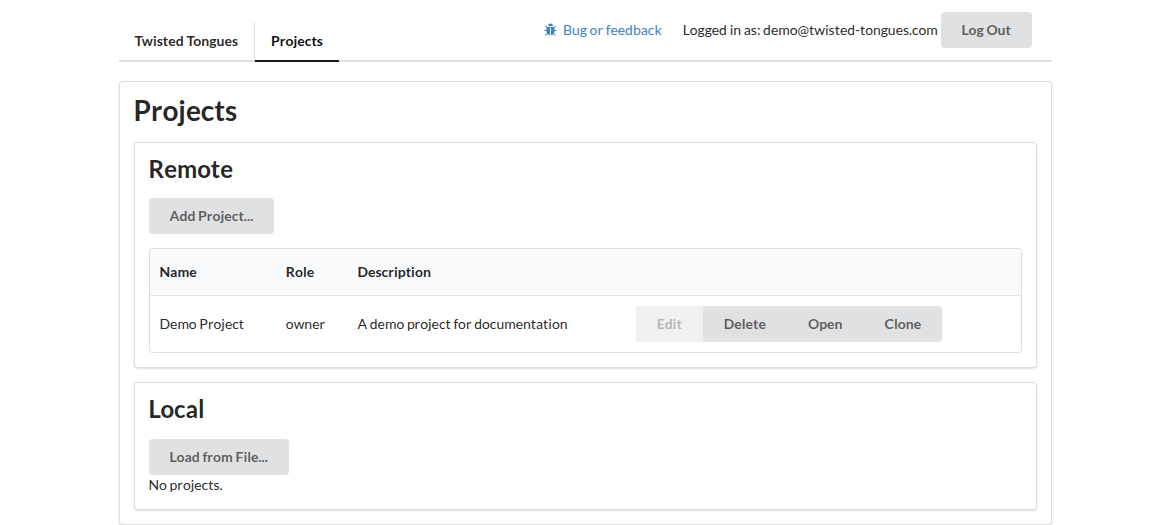
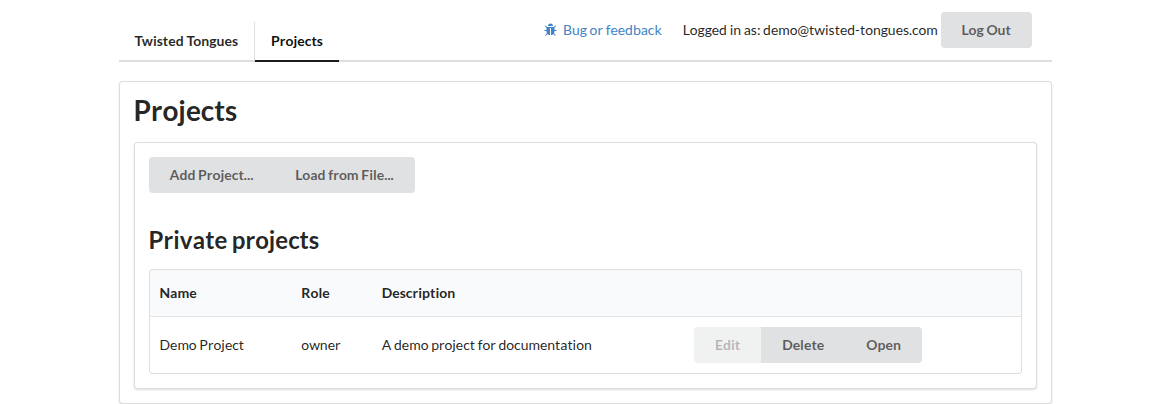
Re-capture the figures, and describe the export TT actually has (#19)
* Re-capture the figures, and describe the export TT actually has

The 20260901 release retired local projects and replaced the export
dialog, and the manual still described both.

## Figures

All 24 automated figures re-captured against 20260901; ten changed.
`figure_016_conflict_button` is a manual capture and is untouched.

The two that carry the text changes: figure 2 no longer has a Clone
button or a "Local" section, and shows the Shared/Private grouping;
figure 17 is an entirely different dialog.

## 2.1, 2.4

Clone is gone, so the three options are two. The list is grouped into
"Shared projects" — anything with a collaborator, in either direction —
and "Private projects", and a heading is only drawn when it has rows
under it, which is worth saying so a user with one list is not looking
for the other.

Loading a file creates a project on the server rather than a "local"
project in the browser, and there is no longer a "Local" section to
click it in.

## 4.6, rewritten

The old text described three modes and a per-track dropdown; the dialog
now asks where the work is going and offers different settings per
destination. Since this is where somebody comes for detail, every
control is documented, in five subsections: the three destinations, the
folded "How it is written" block (notation, interlinear package, small
capitals encoding, NFC/NFD, and when each is unavailable and why), the
per-track switches, both preambles with the reason tipa loads after the
[…]

diff --git a/src/manual.fr.md b/src/manual.fr.md
@@ -34,6 +34,16 @@
 
 [4.6 Exporter des passages](#4.6-exporting-passages)
 
+[4.6.1 Type d'export](#4.6.1-export-type)
+
+[4.6.2 Options avancées](#4.6.2-advanced-options)
+
+[4.6.3 Choisir les pistes](#4.6.3-choosing-tracks)
+
+[4.6.4 Le préambule](#4.6.4-the-preamble)
+
+[4.6.5 L'ancien export](#4.6.5-the-legacy-export)
+
 [5 Recherche de mots](#5-word-search)
 
 [5.1 Options de recherche](#5.1-search-options)
@@ -77,7 +87,9 @@ Figure 1\. Page d'accueil après connexion.
 
 ### 2.1 Ouvrir un projet {#2.1-opening-a-project}
 
-Les projets sont des ensembles de passages associés à un même projet de recherche. Il est recommandé de créer un projet distinct pour chaque langue dont les données sont saisies dans TT. Les projets peuvent être consultés depuis l'onglet « Projects » (figure 2). Dans cet onglet, l'utilisateur voit la liste de tous les projets qu'il a créés, ainsi que ceux qui ont été partagés avec lui. Pour chaque projet de l'onglet « Projects », trois options sont disponibles : 1\) « Delete » (supprimer), qui supprime définitivement le projet pour tous les utilisateurs (seul le propriétaire du projet peut le faire) ; 2\) « Open » (ouvrir), qui permet de consulter le dictionnaire (« Dictionary »), la recherche de mots (« Word Search ») et les passages (« Passages ») de ce projet, et d'y saisir de nouvelles données ; et 3\) « Clone » (cloner), qui crée une copie locale du même projet dans le navigateur utilisé. (Un bouton « Edit » (modifier) apparaît également, mais il est actuellement désactivé : le nom et la description d'un projet ne peuvent pas être modifiés après leur création.)
+Les projets sont des ensembles de passages associés à un même projet de recherche. Il est recommandé de créer un projet distinct pour chaque langue dont les données sont saisies dans TT. Les projets peuvent être consultés depuis l'onglet « Projects » (figure 2). Dans cet onglet, l'utilisateur voit tous les projets qu'il a créés, ainsi que ceux qui ont été partagés avec lui, répartis sous deux intitulés : « Shared projects » (projets partagés) pour ceux qui ont des collaborateurs — que vous ayez invité quelqu'un sur l'un de vos projets ou que l'on vous ait invité sur le sien — et « Private projects » (projets privés) pour ceux qui n'en ont aucun. Un intitulé n'apparaît que s'il a quelque chose à présenter : un utilisateur qui n'a jamais rien partagé ne voit donc qu'une seule liste. Chaque ligne indique également votre rôle dans le projet : « owner » (propriétaire), « writer » (rédacteur) ou « reader » (lecteur).
+
+Pour chaque projet de l'onglet « Projects », deux options sont disponibles : 1\) « Delete » (supprimer), qui supprime définitivement le projet pour tous les utilisateurs (seul le propriétaire du projet peut le faire) ; et 2\) « Open » (ouvrir), qui permet de consulter le dictionnaire (« Dictionary »), la recherche de mots (« Word Search ») et les passages (« Passages ») de ce projet, et d'y saisir de nouvelles données. (Un bouton « Edit » (modifier) apparaît également, mais il est actuellement désactivé : le nom et la description d'un projet ne peuvent pas être modifiés après leur création.)
 
 Figure 2\. Onglet « Projects ».
 ![](images/figure_002_projects_tab.png)
@@ -104,7 +116,9 @@ Consultez la page [export format](/dev/export-format) (en anglais) si vous souha
 
 ### 2.4 Charger un projet depuis un fichier {#2.4-loading-a-project-from-a-file}
 
-Un fichier enregistré peut être rechargé depuis l'onglet « Projects » : cliquez sur « Load from File… » (charger depuis un fichier) dans la section « Local », et TT indiquera ce qu'il a trouvé dans le fichier avant de créer quoi que ce soit. Le chargement crée toujours un nouveau projet « local » — qui réside dans le navigateur que vous utilisez — plutôt que de compléter ou de restaurer un projet sur le serveur. Les fichiers écrits par n'importe quelle version antérieure de TT se chargent également, et nous entendons faire en sorte que tout fichier écrit par TT reste chargeable, dans la mesure de nos moyens ; les plus anciens sont antérieurs aux modèles, un projet chargé à partir de l'un d'eux n'en aura donc aucun.
+Un fichier enregistré peut être rechargé depuis l'onglet « Projects » : cliquez sur « Load from File… » (charger depuis un fichier), et TT indiquera ce qu'il a trouvé dans le fichier — son nom, sa description, ainsi que le nombre de passages, de phrases et de modèles qu'il contient — avant de créer quoi que ce soit. Le chargement crée toujours un nouveau projet ; il ne complète ni ne restaure jamais un projet existant, de sorte qu'un fichier qui se révélerait être le mauvais ne peut pas endommager un travail déjà présent sur le serveur. Le nouveau projet vous appartient, réside sur le serveur, et peut être partagé comme n'importe quel autre.
+
+Les fichiers écrits par n'importe quelle version antérieure de TT se chargent également, et nous entendons faire en sorte que tout fichier écrit par TT reste chargeable, dans la mesure de nos moyens ; les plus anciens sont antérieurs aux modèles, un projet chargé à partir de l'un d'eux n'en aura donc aucun.
 
 ## 3 Modèles {#3-templates}
 
@@ -185,14 +199,95 @@ Dans une piste de type « T2IPA », les données doivent être saisies sous form
 
 ### 4.5 Saisie de la ligne de glose {#4.5-gloss-line-entry}
 
-Dans toute piste de type « Text », les majuscules sont exportées en petites capitales à des fins de glose, conformément aux [règles de glose de Leipzig](https://www.eva.mpg.de/lingua/pdf/Glossing-Rules.pdf). Les tirets au sein d'une même cellule sont interprétés comme des frontières de morphèmes et segmentés comme tels dans le dictionnaire. Les signes égal « = » sont interprétés comme des frontières de clitiques et sont eux aussi segmentés dans le dictionnaire.
+Dans toute piste de type « Text », les majuscules sont exportées en petites capitales à des fins de glose, conformément aux [règles de glose de Leipzig](https://www.eva.mpg.de/lingua/pdf/Glossing-Rules.pdf) ; ce comportement peut être désactivé piste par piste au moment de l'export (voir la section 4.6.3). Les tirets au sein d'une même cellule sont interprétés comme des frontières de morphèmes et segmentés comme tels dans le dictionnaire. Les signes égal « = » sont interprétés comme des frontières de clitiques et sont eux aussi segmentés dans le dictionnaire.
 
 ### 4.6 Exporter des passages {#4.6-exporting-passages}
 
-Pour exporter un passage, cliquez sur « Select All » (tout sélectionner) en haut à droite du passage concerné, puis sur « Export » (exporter), juste en dessous de « Select All ». Pour exporter une ou plusieurs phrases d'un passage, cochez la case à droite des phrases à exporter, puis cliquez sur « Export ». Une fenêtre contextuelle apparaît alors (figure 17), dans laquelle l'utilisateur peut choisir l'un des trois modes d'export : LaTeX, tableau formaté (« Formatted Table ») ou tabulations formatées (« Formatted Tabs »). L'export LaTeX suppose l'utilisation des paquets LaTeX tipa et gb4e. Les tableaux formatés sont du texte brut mis en forme en tableau, garantissant un alignement correct des transcriptions \+ gloses une fois copiés dans un tableur ou un logiciel de traitement de texte. Les tabulations formatées sont similaires, mais avec une tabulation entre chaque mot au lieu d'une mise en forme en tableau. L'utilisateur peut également choisir quelles pistes exporter. Par exemple, une piste de notes ou de catégories syntaxiques peut être utile pour les recherches dans la base, sans que l'on souhaite l'exporter pour publication. Pour chaque nom de piste, un menu déroulant permet de choisir d'exporter ou non cette piste. Dans ce même menu, pour chaque piste de type « Text » ou « T2IPA », l'utilisateur peut choisir un export en mode IPA (recommandé pour toute ligne écrite en API, qu'elle soit saisie dans une piste « Text » ou « T2IPA ») ou en mode Gloss. Ce choix détermine la manière dont les caractères spéciaux sont exportés.
+Pour exporter un passage, cliquez sur « Select All » (tout sélectionner) en haut à droite du passage concerné, puis sur « Export » (exporter), juste en dessous de « Select All ». Pour exporter une ou plusieurs phrases d'un passage, cochez la case à droite des phrases à exporter, puis cliquez sur « Export ». Une fenêtre contextuelle apparaît alors (figure 17).
+
+TT propose trois types d'export : du code LaTeX, du texte mis en forme (pratique à coller dans un document ou un courriel) et du texte délimité par des tabulations (pratique à coller dans un tableur). Le choix se fait en haut de la fenêtre, et les réglages proposés en dessous dépendent du type retenu.
+
+Le résultat apparaît dans le cadre au bas de la fenêtre et se met à jour à mesure que vous modifiez les réglages situés au-dessus. « Copy » (copier) le place dans le presse-papiers ; rien n'est téléchargé. Pour enregistrer un projet entier dans un fichier, voir la section 2.3.
 
 Figure 17\. Export de phrases au format LaTeX.  
 ![](images/figure_017_sentence_export_in_latex_format.png)
+
+#### 4.6.1 Type d'export {#4.6.1-export-type}
+
+Les trois types d'export se choisissent ici, désignés par l'usage auquel ils sont destinés.
+
+* **« A LaTeX paper »** (un article LaTeX) — du code LaTeX : des exemples interlinéaires numérotés, avec des lignes alignées et une traduction libre, prêts à être collés dans un document.
+* **« A document »** (un document) — du texte mis en forme, pour Google Docs, Word, Slides ou un courriel. Les mots restent au-dessus de leurs gloses, de sorte que l'alignement survit au collage.
+* **« A spreadsheet »** (un tableur) — du texte délimité par des tabulations, un mot par cellule, pour Sheets ou Excel.
+
+#### 4.6.2 Options avancées {#4.6.2-advanced-options}
+
+Une section repliée intitulée « How it is written » (comment cela est écrit). Sa ligne de résumé énumère les réglages actuels, qui se lisent donc sans avoir à l'ouvrir. Les choix qu'elle propose dépendent du type d'export.
+
+Pour **un article LaTeX** :
+
+* **« Notation »** — la manière dont la ligne phonétique est écrite.
+  * *tipa* — de l'ASCII, sous la forme `\textipa{\!b}`. Compile sous n'importe quel moteur, mais le document doit charger le paquet tipa (voir la section 4.6.4), ce qui n'est pas toujours commode dans un gabarit élaboré fourni par un éditeur.
+  * *Unicode* — les caractères eux-mêmes, sous la forme ɓ. Nécessite XeLaTeX ou LuaLaTeX, ainsi qu'une police couvrant l'API, mais aucun paquet tipa.
+* **« Interlinear package »** (paquet interlinéaire) — les commandes de quel paquet l'exemple emploie : *gb4e* (recommandé), *expex* ou *linguex*. TT écrit les lignes alignées avec la commande que ce paquet utilise pour le nombre de lignes exportées. Notez que gb4e dans sa version d'origine ne définit que `\gll` et `\glll` : un exemple comportant quatre lignes alignées ou plus requiert donc langsci-gb4e, un remplaçant très répandu qui en définit davantage. L'export écrit la commande dans tous les cas, et un paquet qui ne la définit pas échouera en la nommant, plutôt que de produire un résultat erroné.
+
+Pour **un document** ou **un tableur** :
+
+* **« How small capitals are written »** (comment les petites capitales sont écrites) — ce réglage détermine l'encodage, et ce qui survit dépend de la moitié de la mise en forme que conserve le logiciel de destination.
+  * *« Small capitals »* (petites capitales) — majuscules avec mise en forme. Recommandé : là où la mise en forme est conservée, vous obtenez de vraies petites capitales ; là où elle est perdue, vous obtenez des majuscules, qui se lisent encore comme une glose.
+  * *« Small capitals, lowercase »* (petites capitales, minuscules) — minuscules avec mise en forme. Préférable dans Google Docs en particulier, qui conserve l'une des propriétés de mise en forme et abandonne l'autre. En contrepartie, si toute la mise en forme est perdue, la glose arrive en minuscules.
+  * *« Plain capitals »* (majuscules simples) — aucune mise en forme.
+
+  Ce choix est indisponible, avec une note l'indiquant, lorsque aucune piste n'a l'option « Detect small caps » activée : il n'y a alors rien à écrire.
+
+Pour **toutes** les destinations :
+
+* **« Characters »** (caractères) — si les caractères accentués sont composés ou décomposés. Il ne s'agit pas d'un choix d'apparence : les deux sont identiques sur la page et ne diffèrent que pour les logiciels.
+  * *« Composed »* (composé) — á est un seul caractère (NFC). Ce à quoi les autres logiciels s'attendent.
+  * *« Separate marks »* (marques séparées) — á en fait deux, a suivi d'un accent aigu combinant (NFD).
+
+  Ce choix est indisponible lorsque la notation est tipa, celle-ci étant de l'ASCII : il n'y a aucun caractère à normaliser.
+
+#### 4.6.3 Choisir les pistes {#4.6.3-choosing-tracks}
+
+Sous la section repliée, chaque piste du passage est présentée avec une case à cocher : vous pouvez ainsi écarter les pistes utiles pour la recherche mais non pour la publication — une piste de notes, ou une piste de catégories syntaxiques.
+
+Les **pistes de mots** (« Word tracks ») sont celles qui s'alignent mot à mot, et chacune porte deux réglages supplémentaires :
+
+* **`\textipa all`** (uniquement pour LaTeX en notation tipa) — écrire toute la ligne en notation tipa. Désactivé, seules les parties qui en ont besoin sont encadrées, ce qui laisse le texte ordinaire tel quel.
+* **« Detect small caps »** (détecter les petites capitales) — tout ce qui est écrit entièrement en majuscules, qu'il s'agisse d'un mot entier ou d'une partie de mot délimitée par un tiret ou un point, est considéré comme une catégorie grammaticale et composé en petites capitales : `3SG`, `child.PL`, `Marcus-POSS`. Comme la règle ne s'applique que là où les majuscules courent d'un bout à l'autre, un nom propre ordinaire n'est pas concerné. Désactivez-la pour une piste où les majuscules signifient autre chose, ou qui contient un sigle qui n'est pas une catégorie.
+
+Les **pistes de phrases** (« Sentence tracks ») figurent séparément et n'ont qu'une case à cocher. Une piste de phrase contient une seule valeur pour toute la phrase et devient la traduction libre : il n'y a donc pas d'encadrement mot à mot à choisir, ni de majuscules à détecter.
+
+#### 4.6.4 Le préambule {#4.6.4-the-preamble}
+
+Pour un article LaTeX, une section repliée « Preamble » (préambule) donne les lignes que votre document doit charger, une fois, pour que l'export compile, et nomme les moteurs compatibles avec cette combinaison. Son contenu dépend de la notation choisie.
+
+Avec la notation **tipa**, qui compile sous pdfLaTeX, XeLaTeX ou LuaLaTeX :
+
+```
+\usepackage[T3,T1]{fontenc}
+\usepackage{gb4e}   % or langsci-gb4e, for more than three aligned lines
+\usepackage[tone]{tipa}
+```
+
+L'ordre importe, et il n'est pas celui que l'on attendrait : gb4e et tipa définissent tous deux `\|`, et c'est le second chargé qui l'emporte ; tipa est donc chargé après le paquet interlinéaire. La fenêtre le signale sous le préambule lorsque les deux sont sélectionnés.
+
+Avec la notation **Unicode**, qui nécessite XeLaTeX ou LuaLaTeX :
+
+```
+\usepackage{fontspec}
+\setmainfont{Charis SIL}   % or any face with IPA
+\usepackage{gb4e}   % or langsci-gb4e, for more than three aligned lines
+```
+
+Toute police offrant une bonne couverture de l'API peut remplacer Charis SIL.
+
+#### 4.6.5 L'ancien export {#4.6.5-the-legacy-export}
+
+Un lien au bas de la fenêtre permet de basculer vers l'export que TT utilisait auparavant, et un lien permet d'en revenir. Ce choix est mémorisé dans le navigateur que vous utilisez.
+
+Il n'est pas documenté ici et sera supprimé dans une prochaine version. Si vous constatez devoir l'utiliser, merci de [nous indiquer](#8-questions?) ce qui manque à l'export actuel.
 
 ## 5 Recherche de mots {#5-word-search}
 

diff --git a/src/manual.md b/src/manual.md
@@ -34,6 +34,16 @@
 
 [4.6 Exporting passages](#4.6-exporting-passages)
 
+[4.6.1 Export type](#4.6.1-export-type)
+
+[4.6.2 Advanced options](#4.6.2-advanced-options)
+
+[4.6.3 Choosing tracks](#4.6.3-choosing-tracks)
+
+[4.6.4 The preamble](#4.6.4-the-preamble)
+
+[4.6.5 The legacy export](#4.6.5-the-legacy-export)
+
 [5 Word Search](#5-word-search)
 
 [5.1 Search options](#5.1-search-options)
@@ -75,7 +85,9 @@ Figure 1\. Landing page after login.
 
 ### 2.1 Opening a project {#2.1-opening-a-project}
 
-Projects are sets of passages associated with a single research project. It is recommended that users create a different project for each distinct language for which data is entered into TT. Projects can be viewed from the “Projects” tab (Figure 2). Within the Projects tab, users will see a list of all projects they have created, as well as those that have been shared with them. For each project in the Projects tab, there are three available options: 1\) Delete, which permanently removes the project for all users (only the project owner can do this), 2\) Open, which allows the user to view the Dictionary, Word Search, and Passages for that project, and to enter new data, and 3\) Clone, which makes a local copy of the same project in the browser you are using. (An Edit button also appears but is currently disabled: a project's name and description cannot be changed after creation.)
+Projects are sets of passages associated with a single research project. It is recommended that users create a different project for each distinct language for which data is entered into TT. Projects can be viewed from the “Projects” tab (Figure 2). Within the Projects tab, users will see every project they have created, together with those that have been shared with them, under two headings: “Shared projects” for those that have collaborators — whether you invited somebody to a project of yours, or somebody invited you to theirs — and “Private projects” for those that have none. A heading appears only when there is something under it, so a user who has never shared anything sees a single list. Each row also names your role in that project: owner, writer or reader.
+
+For each project in the Projects tab, there are two available options: 1\) Delete, which permanently removes the project for all users (only the project owner can do this), and 2\) Open, which allows the user to view the Dictionary, Word Search, and Passages for that project, and to enter new data. (An Edit button also appears but is currently disabled: a project's name and description cannot be changed after creation.)
 
 Figure 2\. Projects tab.
 ![](images/figure_002_projects_tab.png)
@@ -102,7 +114,9 @@ See the [export format](/dev/export-format) page if you would like to read the f
 
 ### 2.4 Loading a project from a file {#2.4-loading-a-project-from-a-file}
 
-A saved file can be loaded back in from the “Projects” tab: click “Load from File…” in the “Local” section, and TT will report what it found in the file before creating anything. It always loads into a new “local” project — one that lives in the browser you are using — rather than adding to or restoring a project on the server. Files written by any earlier version of TT load as well, and keeping every file TT has ever written loadable is a commitment we intend to keep, as far as we are able; the oldest of them predate templates, so a project loaded from one will have none.
+A saved file can be loaded back in from the “Projects” tab: click “Load from File…”, and TT will report what it found in the file — its name, description, and how many passages, sentences and templates it holds — before creating anything. Loading always creates a new project, and never adds to or restores one that already exists, so a file that turns out to be the wrong one cannot damage work already on the server. The new project is yours, on the server, and can be shared like any other.
+
+Files written by any earlier version of TT load as well, and keeping every file TT has ever written loadable is a commitment we intend to keep, as far as we are able; the oldest of them predate templates, so a project loaded from one will have none.
 
 ## 3 Templates {#3-templates}
 
@@ -183,14 +197,95 @@ If using a track of the type “T2IPA”, data should be entered as code followi
 
 ### 4.5 Gloss line entry {#4.5-gloss-line-entry}
 
-In any text-type track, capital letters will be exported as small caps for glossing purposes, following the [Leipzig Glossing Conventions](https://www.eva.mpg.de/lingua/pdf/Glossing-Rules.pdf). Dashes within a single cell are interpreted as morpheme boundaries and segmented as such in the dictionary. Equals signs “=” are interpreted as clitic boundaries and are also segmented in the dictionary.
+In any text-type track, capital letters will be exported as small caps for glossing purposes, following the [Leipzig Glossing Conventions](https://www.eva.mpg.de/lingua/pdf/Glossing-Rules.pdf); this can be switched off per track when exporting (see section 4.6.3). Dashes within a single cell are interpreted as morpheme boundaries and segmented as such in the dictionary. Equals signs “=” are interpreted as clitic boundaries and are also segmented in the dictionary.
 
 ### 4.6 Exporting passages {#4.6-exporting-passages}
 
-To export a passage, click “Select All” at the top right of a particular passage, and then click “Export”, right underneath “Select All”. To export one or more sentences from within a passage, click the check box on the right of the sentences you’d like to export, and then click “Export”. Upon clicking “Export”, a pop-up window will appear (Figure 17), wherein a user can choose to export in one of three modes: LaTeX, Formatted Table, or Formatted Tabs. LaTeX export assumes the use of the tipa and gb4e LaTeX packages. Formatted tables are plain text formatted in a table, resulting in correct alignment of transcriptions \+ glosses when copied into a spreadsheet or word processing software. Formatted tabs are similar, but with a tab between each word rather than formatted in a table. Users can also customize which tracks are exported. For example, you may have a track for notes or syntactic category that is useful for searching in the database, but you may not want to export these tracks for publishing. For each track name, there is a drop-down menu allowing the user to choose whether to export that track or not. In the same drop-down menu, for each Text- or T2IPA-type track the user can choose whether to export as IPA (recommended for any line written in IPA, whether using the Text-type track or the T2IPA-type track) or Gloss. This choice will determine how special characters are exported.
+To export a passage, click “Select All” at the top right of a particular passage, and then click “Export”, right underneath “Select All”. To export one or more sentences from within a passage, click the check box on the right of the sentences you’d like to export, and then click “Export”. Upon clicking “Export”, a pop-up window will appear (Figure 17).
+
+TT provides three types of export: LaTeX code, formatted text (convenient for pasting into a document or an email), and tab-delimited text (convenient for pasting into a spreadsheet). You choose between them at the top of the dialog, and the settings offered below depend on which you pick.
+
+The result appears in the box at the bottom of the dialog and updates as you change the settings above it. “Copy” places it on the clipboard; nothing is downloaded. To save an entire project to a file instead, see section 2.3.
 
 Figure 17\. Sentence Export in LaTeX format.  
 ![](images/figure_017_sentence_export_in_latex_format.png)
+
+#### 4.6.1 Export type {#4.6.1-export-type}
+
+The three export types are chosen here, labelled by what you are exporting for.
+
+* **A LaTeX paper** — LaTeX code: numbered interlinear examples with aligned lines and a free translation, ready to paste into a document.
+* **A document** — formatted text, for Google Docs, Word, Slides or an email. Words stay above their glosses, so the alignment survives the paste.
+* **A spreadsheet** — tab-delimited text, one word per cell, for Sheets or Excel.
+
+#### 4.6.2 Advanced options {#4.6.2-advanced-options}
+
+A folded section headed “How it is written”. Its summary line lists the current settings, so they can be read without opening it. Which choices it offers depends on the export type.
+
+For **a LaTeX paper**:
+
+* **Notation** — how the phonetic line is written.
+  * *tipa* — ASCII, as `\textipa{\!b}`. Compiles under any engine, but the document has to load the tipa package (see section 4.6.4), which can be awkward to add to an elaborate template from a publisher.
+  * *Unicode* — the characters themselves, as ɓ. Needs XeLaTeX or LuaLaTeX, and a font with IPA coverage, but no tipa package.
+* **Interlinear package** — which package's commands the example is written for: *gb4e* (recommended), *expex*, or *linguex*. TT writes the aligned lines using the command that package uses for the number of lines you are exporting. Note that stock gb4e defines only `\gll` and `\glll`, so an example with four or more aligned lines needs langsci-gb4e, a widely used drop-in replacement that defines more; the export writes the command either way, and a package that does not define it will fail by naming it rather than producing something wrong.
+
+For **a document** or **a spreadsheet**:
+
+* **How small capitals are written** — this decides the encoding, and what survives depends on which half of the styling the receiving editor keeps.
+  * *Small capitals* — uppercase with styling. Recommended: where styling is kept you get true small capitals, and where it is lost you get capitals, which still read as a gloss.
+  * *Small capitals, lowercase* — lowercase with styling. Better in Google Docs specifically, which keeps one styling property and drops the other. The trade is that if all styling is lost, the gloss arrives in lowercase.
+  * *Plain capitals* — no styling at all.
+
+  This choice is unavailable, with a note saying so, when no track has “Detect small caps” switched on — there is then nothing for it to write.
+
+For **every** destination:
+
+* **Characters** — whether accented characters are composed or decomposed. This is not a choice about how anything looks; both are identical on the page and differ only to software.
+  * *Composed* — á is one character (NFC). What other software expects.
+  * *Separate marks* — á is two, a plus a combining acute (NFD).
+
+  This choice is unavailable when the notation is tipa, since tipa is ASCII and has no characters to normalize.
+
+#### 4.6.3 Choosing tracks {#4.6.3-choosing-tracks}
+
+Below the folded section, every track in the passage is listed with a checkbox, so you can leave out tracks that are useful for searching but not for publishing — a notes track, or one holding syntactic categories.
+
+**Word tracks** are the ones that align word by word, and each carries two further switches:
+
+* **`\textipa all`** (LaTeX with tipa notation only) — write the whole line in tipa notation. With it off, only the parts that need it are wrapped, which leaves ordinary text as ordinary text.
+* **Detect small caps** — anything written entirely in capitals, whether a whole word or a part of one set off by a dash or a period, is taken for a grammatical category and set in small capitals: `3SG`, `child.PL`, `Marcus-POSS`. Because it applies only where the capitals run the whole way through, an ordinary proper noun is left alone. Switch it off for a track where capitals mean something else, or one holding an acronym that is not a category.
+
+**Sentence tracks** are listed separately and have only a checkbox. A sentence track holds one value for the whole sentence and becomes the free translation, so there is no word-by-word wrapping to choose and no capitals to detect.
+
+#### 4.6.4 The preamble {#4.6.4-the-preamble}
+
+For a LaTeX paper, a folded “Preamble” section gives the lines your document needs to load, once, for the export to compile, and names the engines that combination works with. What it contains depends on the notation you chose.
+
+With **tipa** notation, which compiles under pdfLaTeX, XeLaTeX or LuaLaTeX:
+
+```
+\usepackage[T3,T1]{fontenc}
+\usepackage{gb4e}   % or langsci-gb4e, for more than three aligned lines
+\usepackage[tone]{tipa}
+```
+
+The order matters and is not the obvious one: gb4e and tipa both define `\|`, and whichever loads second wins, so tipa is loaded after the interlinear package. The dialog says so beneath the preamble when both are selected.
+
+With **Unicode** notation, which needs XeLaTeX or LuaLaTeX:
+
+```
+\usepackage{fontspec}
+\setmainfont{Charis SIL}   % or any face with IPA
+\usepackage{gb4e}   % or langsci-gb4e, for more than three aligned lines
+```
+
+Any font with good IPA coverage will do in place of Charis SIL.
+
+#### 4.6.5 The legacy export {#4.6.5-the-legacy-export}
+
+A link at the foot of the dialog switches to the export TT used before, and a link there switches back. The choice is remembered in the browser you are using.
+
+It is not documented here, and it will be removed in a future release. If you find you have to use it, please [tell us](#8-questions?) what the current export is missing.
 
 ## 5 Word Search {#5-word-search}
 
